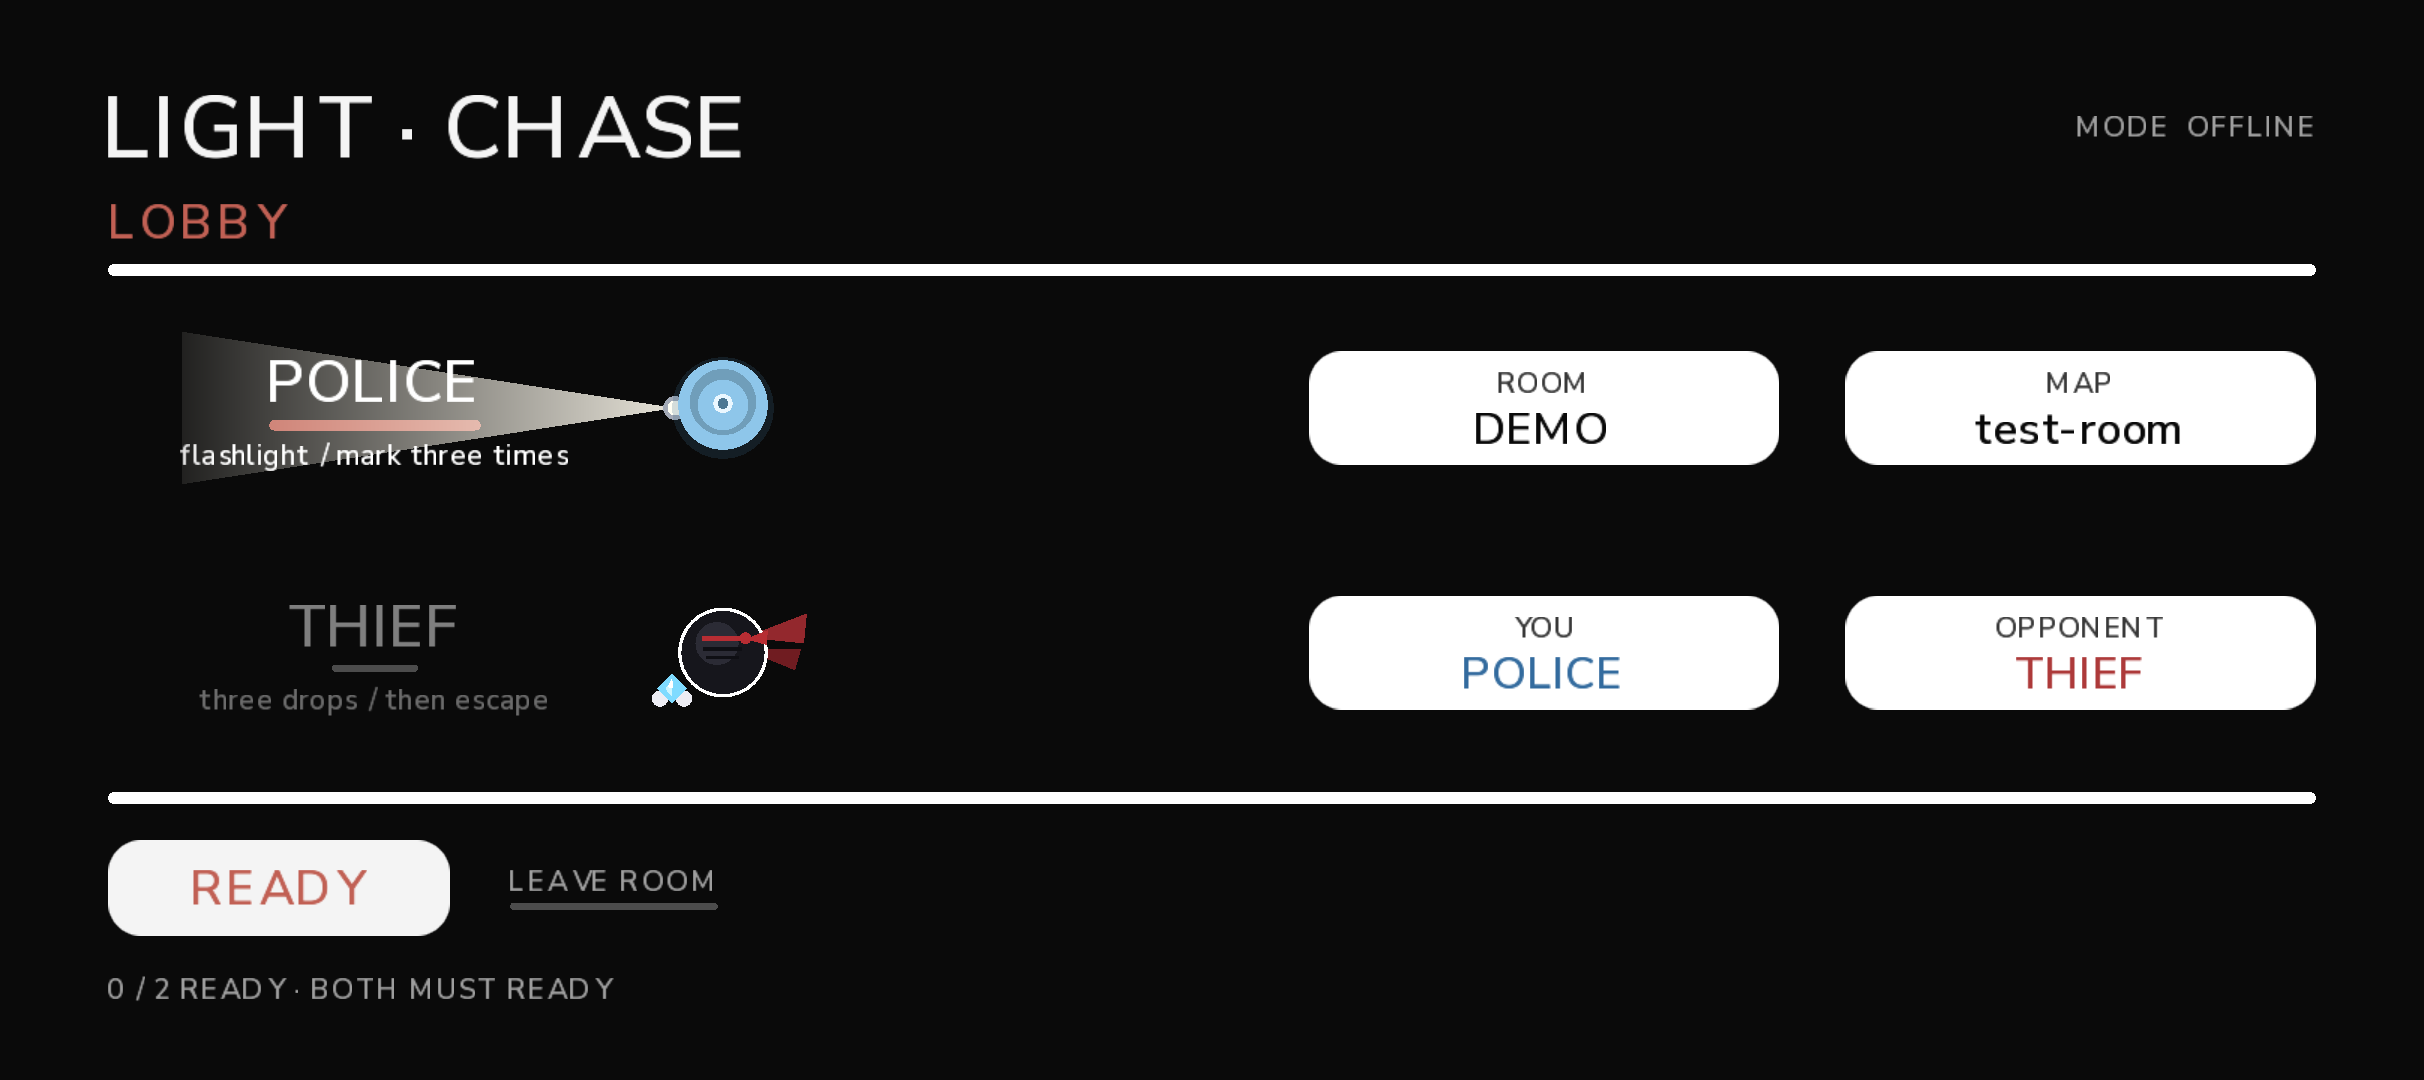
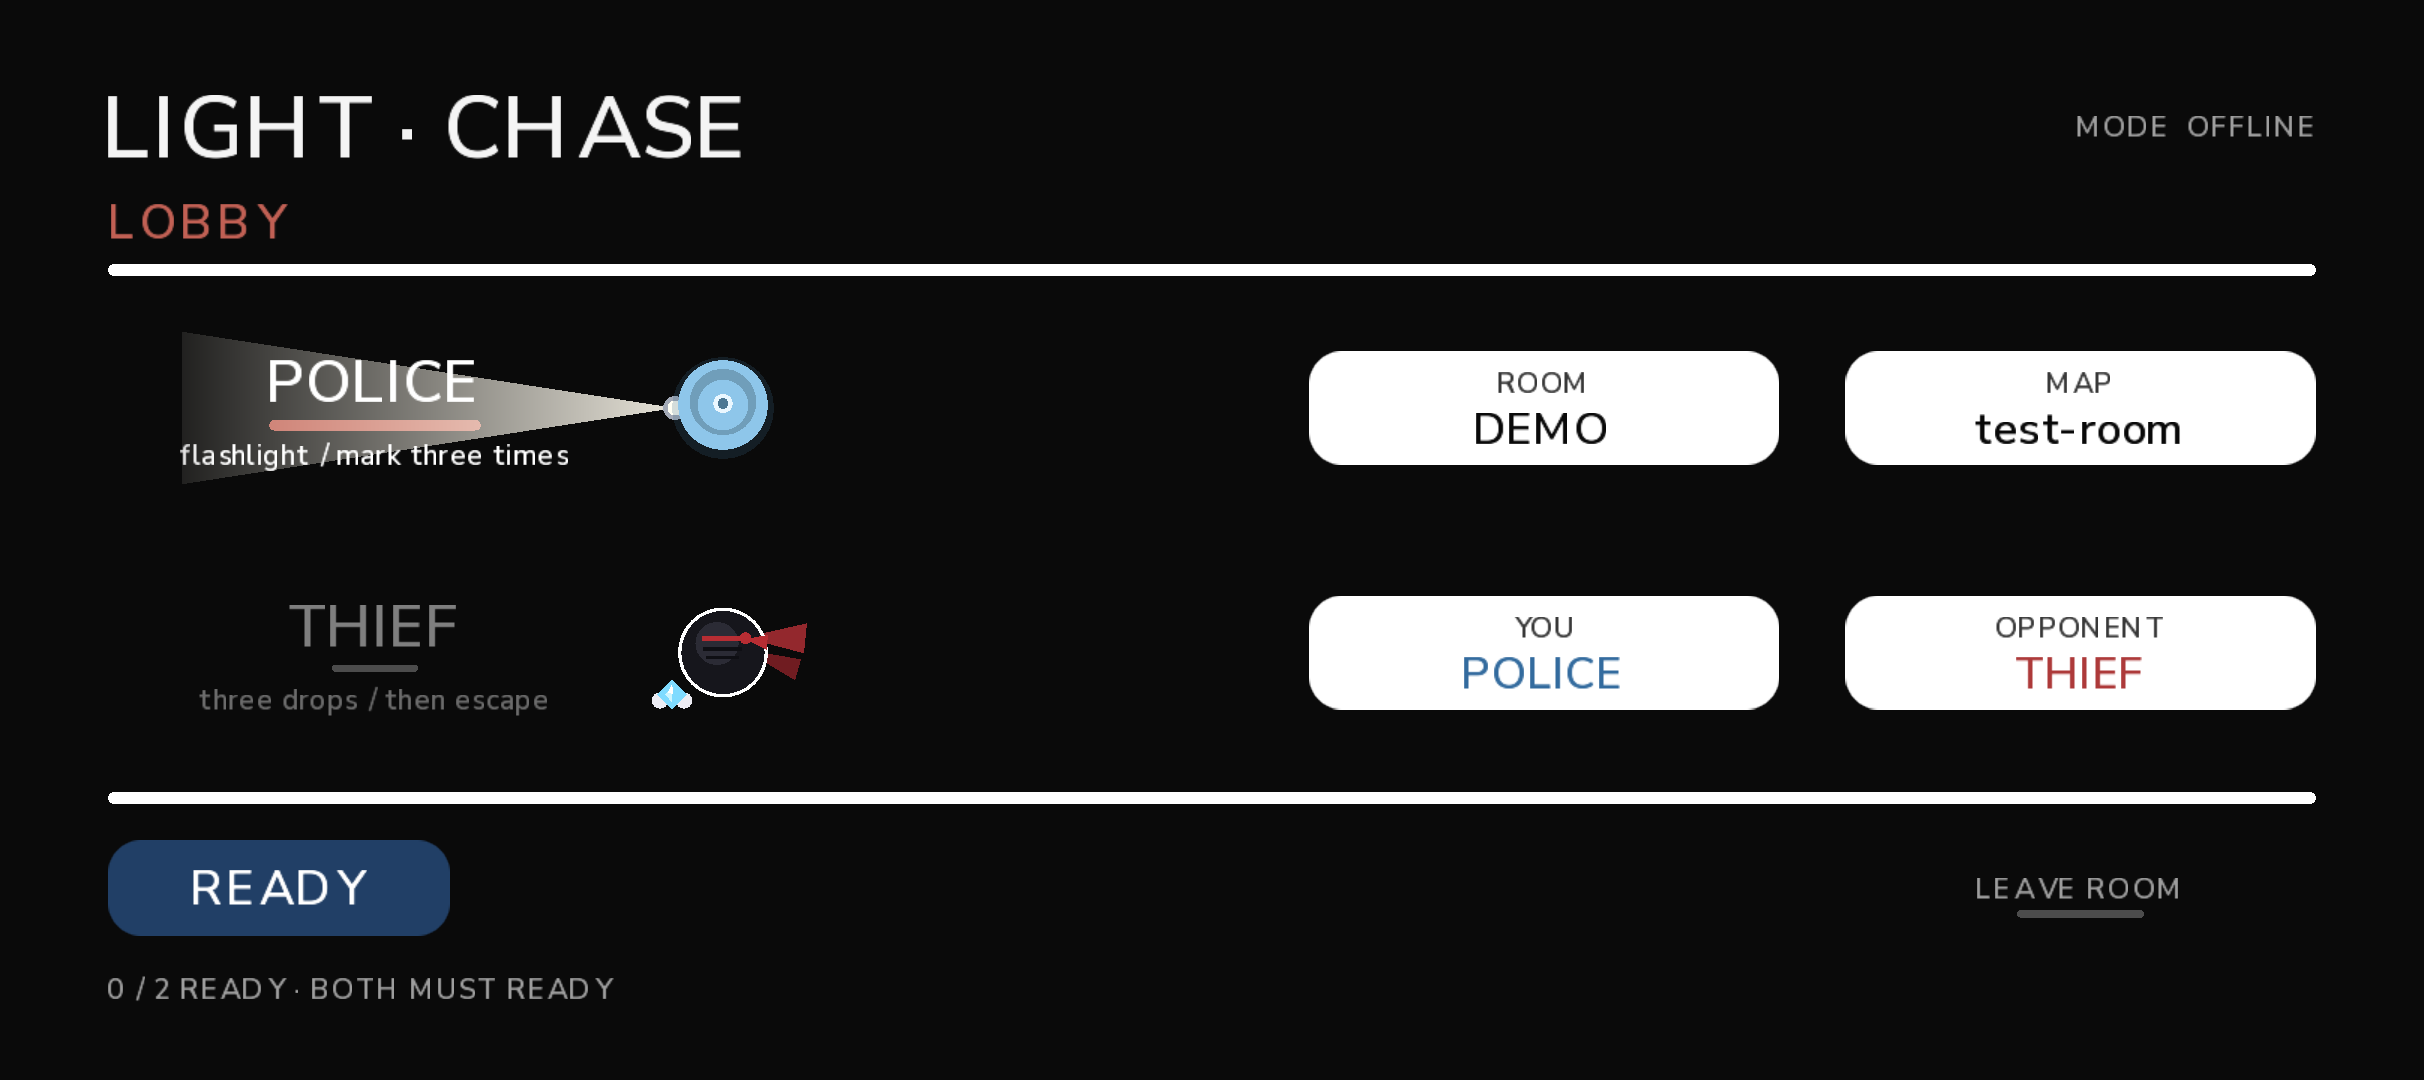
ui: never echo control statuses; failures read as sentences

diff --git a/client-core/src/main/java/com/lightchase/client/LightChaseApp.java b/client-core/src/main/java/com/lightchase/client/LightChaseApp.java
@@ -421,13 +421,40 @@ public final class LightChaseApp extends ApplicationAdapter {
         // notice line with steps the player never took.
         if ("HELLO".equals(s.action) || "JOIN_ROOM".equals(s.action) || "HEARTBEAT".equals(s.action)) return;
         quit.onControl(s.action, s.state);
-        notice = s.action + ": " + s.state + (s.errorCode == null ? "" : " (" + s.errorCode + ")");
-        if (s.state == ControlStatus.State.FAILED) errorText = s.action + " failed: " + s.errorCode;
-        if (s.state == ControlStatus.State.TIMED_OUT) errorText = s.action + " timed out";
-        if (s.state == ControlStatus.State.SUCCEEDED) errorText = "";
+        // Only failures are worth a line. A successful SELECT_ROLE is already visible as the
+        // highlighted role row - printing "SELECT_ROLE: SUCCEEDED" under it says nothing.
+        switch (s.state) {
+            case SUCCEEDED:
+                errorText = "";
+                notice = "";
+                break;
+            case FAILED:
+                errorText = "";
+                notice = readableError(s.errorCode);
+                break;
+            case TIMED_OUT:
+                errorText = "";
+                notice = "THE SERVER DID NOT ANSWER";
+                break;
+            default:
+                break;
+        }
     }
 
     private boolean pending(String action) { return pendingControls.contains(action); }
+
+    /** Server error codes are shouting identifiers; the notice line speaks in sentences. */
+    private static String readableError(String code) {
+        if (code == null || code.isEmpty()) return "THAT DID NOT WORK";
+        switch (code) {
+            case "ROLE_TAKEN": return "THAT ROLE IS TAKEN";
+            case "ROOM_FULL": return "THE ROOM IS FULL";
+            case "NOT_CONNECTED": return "NOT CONNECTED";
+            case "INVALID_PHASE": return "NOT AVAILABLE RIGHT NOW";
+            case "INVALID_STATE": return "NOT AVAILABLE RIGHT NOW";
+            default: return code.replace('_', ' ');
+        }
+    }
 
     /**
      * Clears every per-connection artifact. Shared by disconnect, fatal error, transport switch and
